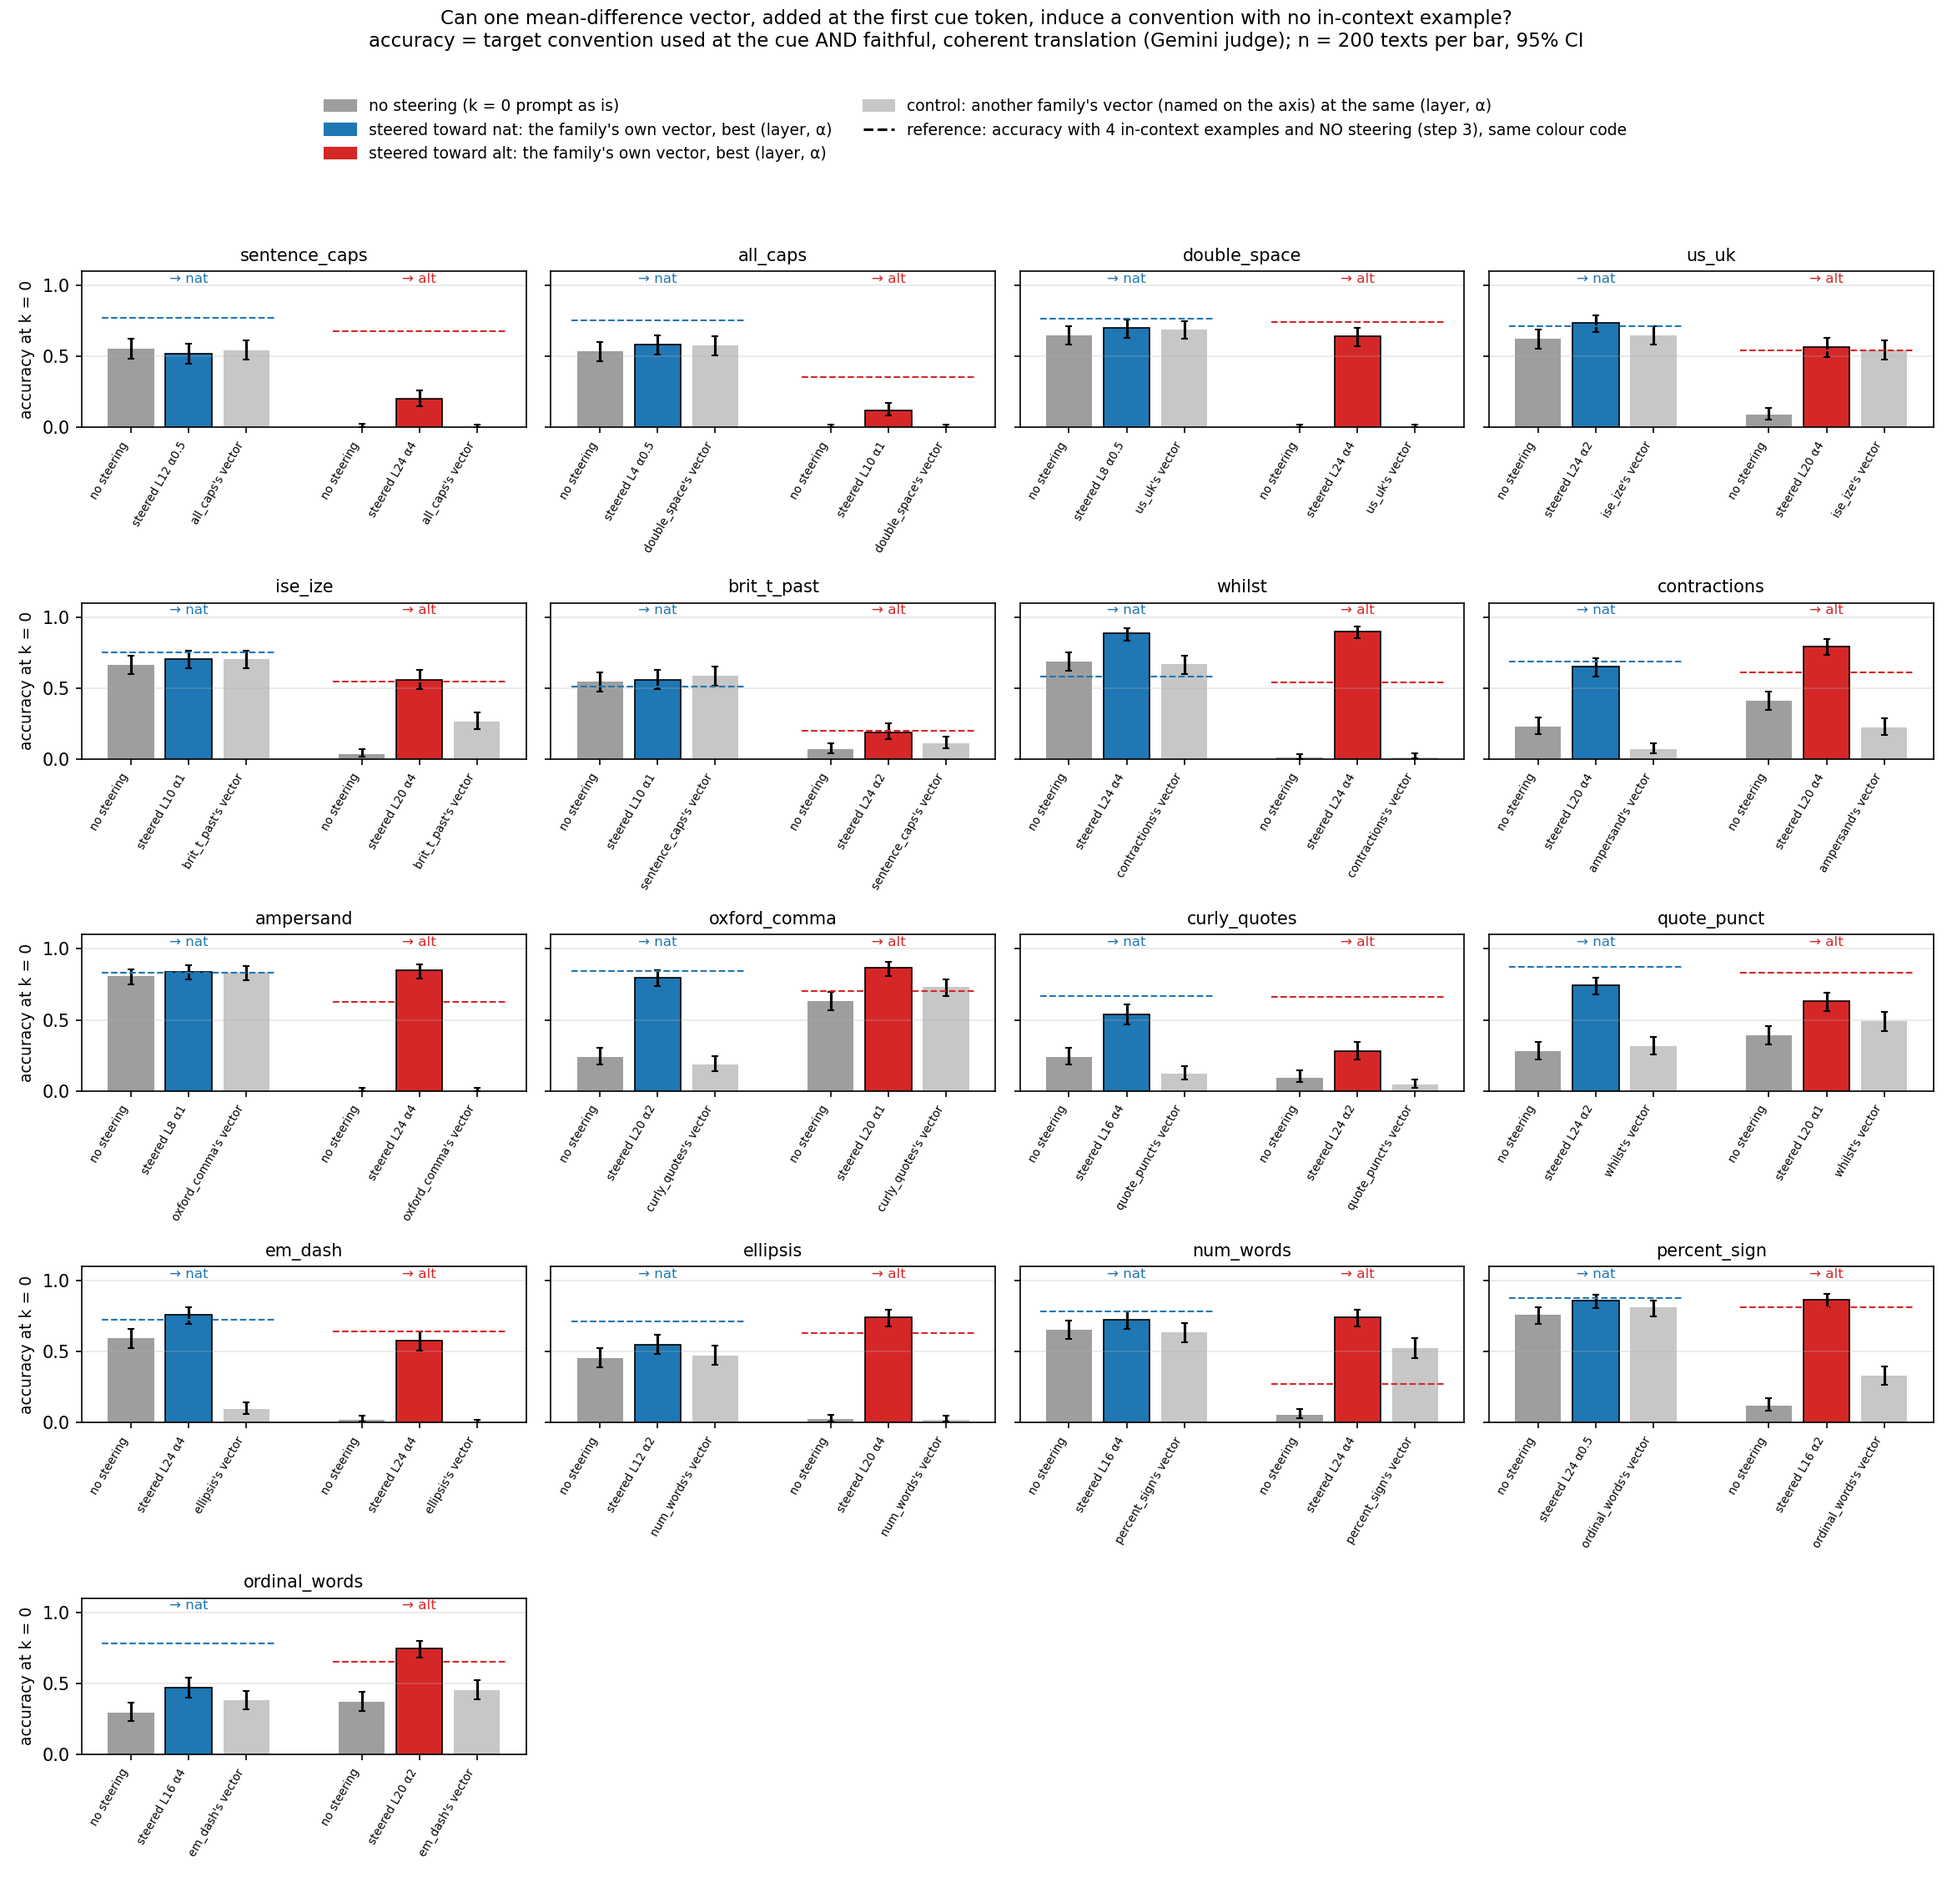
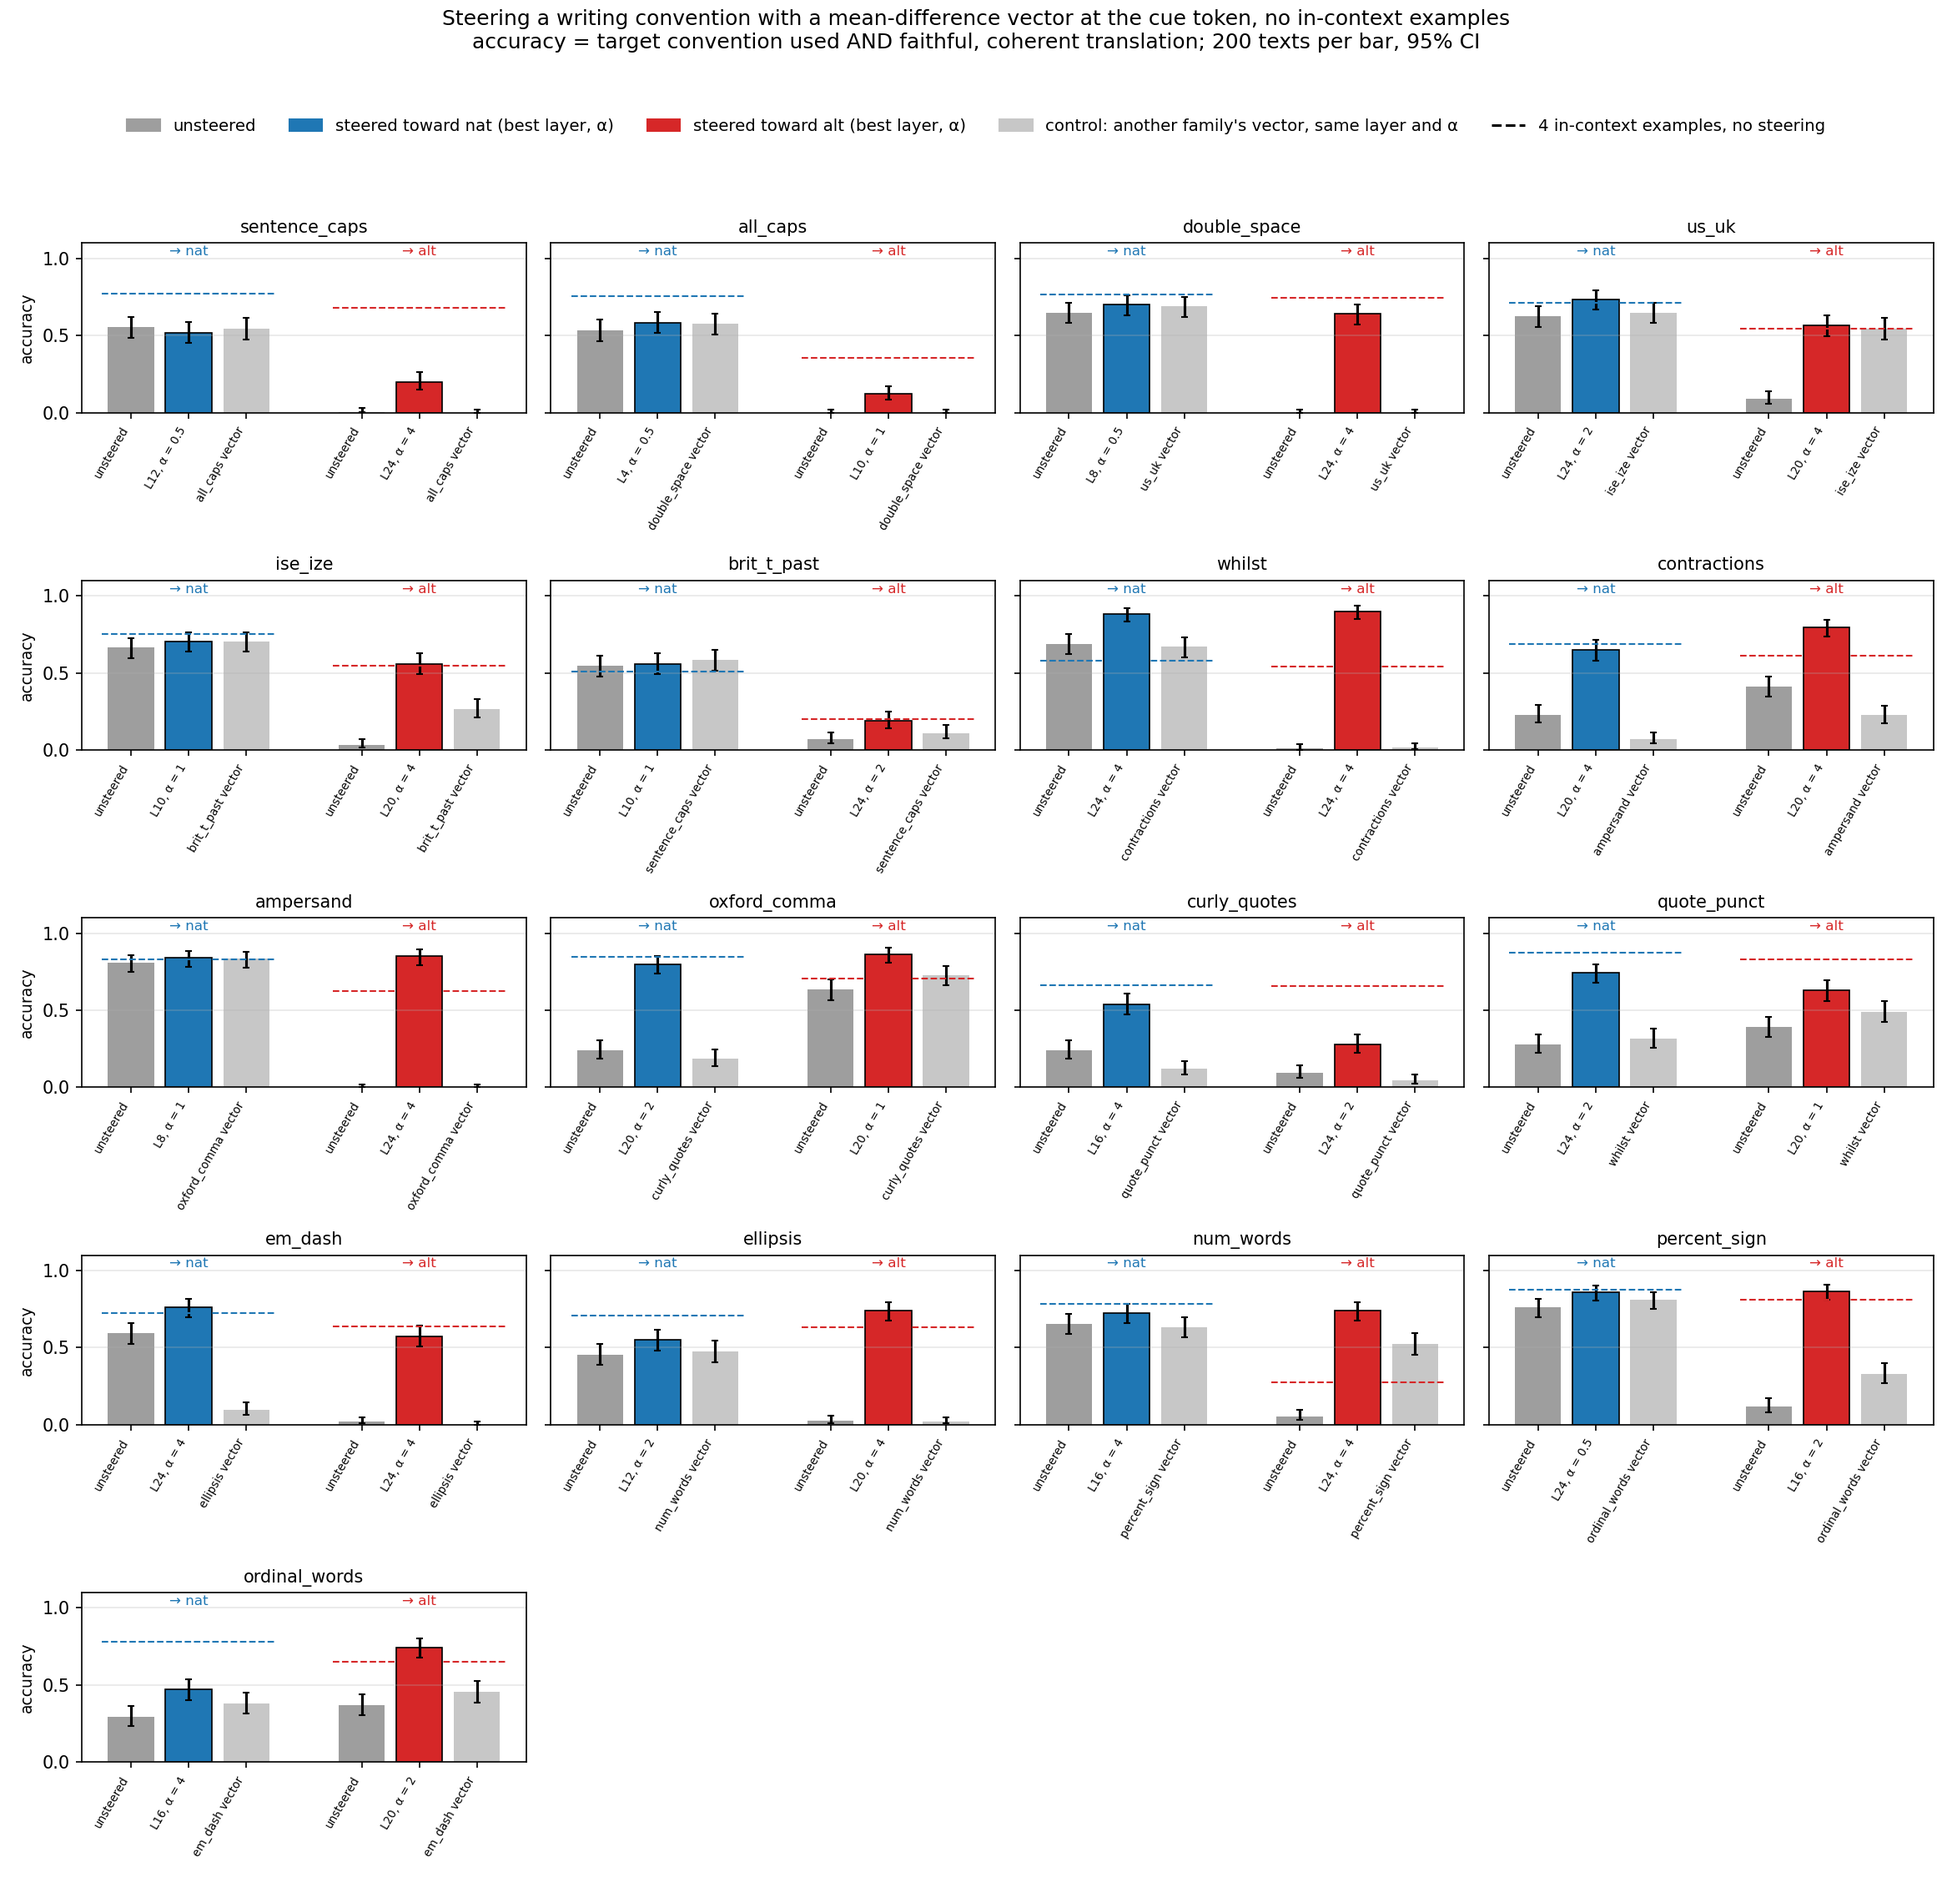
steering summary figures: shorter self-contained title and legend, no pipeline references

diff --git a/src/sandbox/style_translation/steer_analyze.py b/src/sandbox/style_translation/steer_analyze.py
@@ -124,9 +124,9 @@ def main():
                 base = [r for r in rows if r["family"] == fam and r["target"] == target and r["arm"] == "base"][0]
                 b = best[(fam, target)]
                 cf = [r for r in rows if r["family"] == fam and r["target"] == target and r["arm"] == f"{target}_cf"][0]
-                bars = [(base, C["base"], "no steering"), (b, C["steer"][target], f"steered L{b['layer']} α{b['alpha']:g}")]
+                bars = [(base, C["base"], "unsteered"), (b, C["steer"][target], f"L{b['layer']}, α = {b['alpha']:g}")]
                 if with_controls:
-                    bars.append((cf, C["cf"], f"{cf['cf_family']}'s vector"))
+                    bars.append((cf, C["cf"], f"{cf['cf_family']} vector"))
                 for j, (r, col, lab) in enumerate(bars):
                     ax.bar(x + j, r["accuracy"], color=col, edgecolor="black" if j == 1 else "none", linewidth=0.8,
                            yerr=[[r["accuracy"] - r["ci_lo"]], [r["ci_hi"] - r["accuracy"]]], capsize=2)
@@ -141,19 +141,19 @@ def main():
         for ax in axes[len(fams):]:
             ax.axis("off")
         for ax in axes[::ncol]:
-            ax.set_ylabel("accuracy at k = 0", fontsize=9)
-        handles = [Patch(color=C["base"], label="no steering (k = 0 prompt as is)"),
-                   Patch(color=C["steer"]["nat"], label="steered toward nat: the family's own vector, best (layer, α)"),
-                   Patch(color=C["steer"]["alt"], label="steered toward alt: the family's own vector, best (layer, α)")]
+            ax.set_ylabel("accuracy", fontsize=9)
+        handles = [Patch(color=C["base"], label="unsteered"),
+                   Patch(color=C["steer"]["nat"], label="steered toward nat (best layer, α)"),
+                   Patch(color=C["steer"]["alt"], label="steered toward alt (best layer, α)")]
         if with_controls:
-            handles.append(Patch(color=C["cf"], label="control: another family's vector (named on the axis) at the same (layer, α)"))
+            handles.append(Patch(color=C["cf"], label="control: another family's vector, same layer and α"))
         handles.append(Line2D([], [], color="black", linestyle="dashed",
-                              label="reference: accuracy with 4 in-context examples and NO steering (step 3), same colour code"))
-        fig.legend(handles=handles, loc="upper center", bbox_to_anchor=(0.5, 0.955), ncol=2, fontsize=9, frameon=False)
-        fig.suptitle("Can one mean-difference vector, added at the first cue token, induce a convention with no in-context example?\n"
-                     "accuracy = target convention used at the cue AND faithful, coherent translation (Gemini judge); n = 200 texts per bar, 95% CI",
-                     fontsize=11, y=0.995)
-        fig.tight_layout(rect=(0, 0, 1, 0.91)); fig.savefig(path, dpi=150); plt.close(fig)
+                              label="4 in-context examples, no steering"))
+        fig.legend(handles=handles, loc="upper center", bbox_to_anchor=(0.5, 0.945), ncol=len(handles), fontsize=9.5, frameon=False)
+        fig.suptitle("Steering a writing convention with a mean-difference vector at the cue token, no in-context examples\n"
+                     "accuracy = target convention used AND faithful, coherent translation; 200 texts per bar, 95% CI",
+                     fontsize=12, y=0.995)
+        fig.tight_layout(rect=(0, 0, 1, 0.925)); fig.savefig(path, dpi=150); plt.close(fig)
 
     summary_figure(OUT / "steering_summary.png", with_controls=False)
     summary_figure(OUT / "steering_summary_controls.png", with_controls=True)
